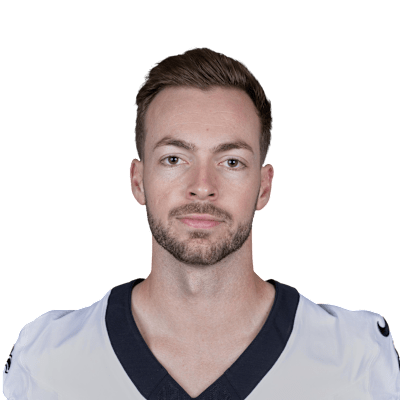
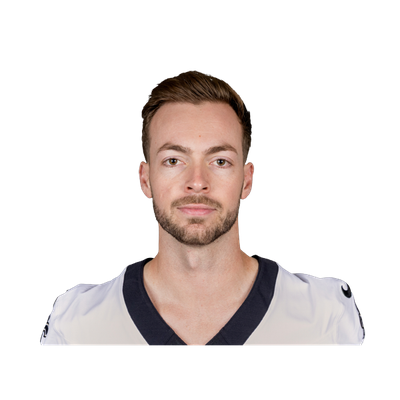
fix: repair the QB update pipeline and bring the roster current for 2026
populateQBs.js was silently a no-op: its "run if called directly" check
compared a URL-encoded import.meta.url against a raw file:// string built
from process.argv[1], which never matched on this checkout's path (it
contains spaces). It also never loaded .env, so the client Firestore SDK
connected with an undefined project id. Layered on top, the client SDK
can't write to `players` at all under firestore.rules (admin-only) without
authenticating -- so even after both bugs were fixed, every write came back
PERMISSION_DENIED. Rewrote it to use firebase-admin with the already-present,
gitignored serviceAccountKey.json, which the admin-SDK dependency and key
file suggest was the intended design all along.

With the pipeline actually running, updated quarterbacks.js against current
team depth charts: added 42 quarterbacks who were on a depth chart but not
on the list, re-added Jake Haener (an orphaned headshot with no list entry),
and corrected 3 stale teams (Justin Fields to KC, Sam Howell to DAL, Joe
Flacco to CIN). Retired/inactive quarterbacks (Taylor Heinicke, Russell
Wilson) were left in place on their last known team, not removed.

Also fixed the same stale-team duplication in backupQBClassification.js's
Hall of Fame list (Joe Flacco, Tyrod Taylor) and two id typos that no longer
matched their quarterbacks.js entries.

Downloaded and processed real headshots for the 46 quarterbacks who needed
one (42 new adds plus 4 already on the list but missing a photo), matching
[…]

diff --git a/src/features/ranker/quarterbacks.js b/src/features/ranker/quarterbacks.js
@@ -13,50 +13,93 @@
 // Run `npm run check-roster` after editing.
 export const quarterbacks = [
   { id: 'aaron-rodgers', name: 'Aaron Rodgers', team: 'PIT' },
+  { id: 'aidan-oconnell', name: "Aidan O'Connell", team: 'LV' },
+  { id: 'andy-dalton', name: 'Andy Dalton', team: 'PHI' },
   { id: 'anthony-richardson', name: 'Anthony Richardson', team: 'IND' },
+  { id: 'athan-kaliakmanis', name: 'Athan Kaliakmanis', team: 'WAS' },
   { id: 'baker-mayfield', name: 'Baker Mayfield', team: 'TB' },
+  { id: 'behren-morton', name: 'Behren Morton', team: 'NE' },
   { id: 'bo-nix', name: 'Bo Nix', team: 'DEN' },
+  { id: 'brady-cook', name: 'Brady Cook', team: 'MIA' },
   { id: 'brock-purdy', name: 'Brock Purdy', team: 'SF' },
   { id: 'bryce-young', name: 'Bryce Young', team: 'CAR' },
   { id: 'c-j-stroud', name: 'C.J. Stroud', team: 'HOU' },
+  { id: 'cade-klubnik', name: 'Cade Klubnik', team: 'NYJ' },
   { id: 'caleb-williams', name: 'Caleb Williams', team: 'CHI' },
   { id: 'cameron-ward', name: 'Cam Ward', team: 'TEN' },
+  { id: 'carson-beck', name: 'Carson Beck', team: 'ARI' },
   { id: 'carson-wentz', name: 'Carson Wentz', team: 'MIN' },
+  { id: 'case-keenum', name: 'Case Keenum', team: 'CHI' },
+  { id: 'cole-payton', name: 'Cole Payton', team: 'PHI' },
+  { id: 'cooper-rush', name: 'Cooper Rush', team: 'ATL' },
   { id: 'dak-prescott', name: 'Dak Prescott', team: 'DAL' },
   { id: 'daniel-jones', name: 'Daniel Jones', team: 'IND' },
+  { id: 'davis-mills', name: 'Davis Mills', team: 'HOU' },
   { id: 'deshaun-watson', name: 'Deshaun Watson', team: 'CLE' },
   { id: 'drake-maye', name: 'Drake Maye', team: 'NE' },
+  { id: 'drew-allar', name: 'Drew Allar', team: 'PIT' },
+  { id: 'drew-lock', name: 'Drew Lock', team: 'SEA' },
   { id: 'fernando-mendoza', name: 'Fernando Mendoza', team: 'LV' },
+  { id: 'garrett-nussmeier', name: 'Garrett Nussmeier', team: 'KC' },
   { id: 'geno-smith', name: 'Geno Smith', team: 'NYJ' },
+  { id: 'gardner-minshew-ii', name: 'Gardner Minshew II', team: 'ARI' },
+  { id: 'haynes-king', name: 'Haynes King', team: 'CAR' },
   { id: 'j-j-mccarthy', name: 'J.J. McCarthy', team: 'MIN' },
+  { id: 'jack-strand', name: 'Jack Strand', team: 'ATL' },
   { id: 'jacoby-brissett', name: 'Jacoby Brissett', team: 'ARI' },
+  { id: 'jake-haener', name: 'Jake Haener', team: 'NYG' },
   { id: 'jalen-hurts', name: 'Jalen Hurts', team: 'PHI' },
+  { id: 'jalen-milroe', name: 'Jalen Milroe', team: 'SEA' },
+  { id: 'jalon-daniels', name: 'Jalon Daniels', team: 'TB' },
   { id: 'jameis-winston', name: 'Jameis Winston', team: 'NYG' },
   { id: 'jared-goff', name: 'Jared Goff', team: 'DET' },
+  { id: 'jarrett-stidham', name: 'Jarrett Stidham', team: 'DEN' },
   { id: 'jaxson-dart', name: 'Jaxson Dart', team: 'NYG' },
   { id: 'jayden-daniels', name: 'Jayden Daniels', team: 'WAS' },
   { id: 'joe-burrow', name: 'Joe Burrow', team: 'CIN' },
-  { id: 'joe-flacco', name: 'Joe Flacco', team: 'CLE' },
+  { id: 'joe-fagnano', name: 'Joe Fagnano', team: 'BAL' },
+  { id: 'joe-flacco', name: 'Joe Flacco', team: 'CIN' },
   { id: 'jordan-love', name: 'Jordan Love', team: 'GB' },
   { id: 'josh-allen', name: 'Josh Allen', team: 'BUF' },
-  { id: 'justin-fields', name: 'Justin Fields', team: 'NYJ' },
+  { id: 'joshua-dobbs', name: 'Joshua Dobbs', team: 'DET' },
+  { id: 'justin-fields', name: 'Justin Fields', team: 'KC' },
   { id: 'justin-herbert', name: 'Justin Herbert', team: 'LAC' },
+  { id: 'kenny-pickett', name: 'Kenny Pickett', team: 'CAR' },
   { id: 'kirk-cousins', name: 'Kirk Cousins', team: 'LV' },
+  { id: 'kurtis-rourke', name: 'Kurtis Rourke', team: 'SF' },
+  { id: 'kyle-allen', name: 'Kyle Allen', team: 'BUF' },
+  { id: 'kyle-mccord', name: 'Kyle McCord', team: 'MIA' },
   { id: 'kyler-murray', name: 'Kyler Murray', team: 'MIN' },
   { id: 'lamar-jackson', name: 'Lamar Jackson', team: 'BAL' },
   { id: 'mac-jones', name: 'Mac Jones', team: 'SF' },
   { id: 'malik-willis', name: 'Malik Willis', team: 'MIA' },
   { id: 'marcus-mariota', name: 'Marcus Mariota', team: 'WAS' },
+  { id: 'mason-rudolph', name: 'Mason Rudolph', team: 'PIT' },
   { id: 'matthew-stafford', name: 'Matthew Stafford', team: 'LAR' },
   { id: 'michael-penix-jr', name: 'Michael Penix Jr', team: 'ATL' },
+  { id: 'mitchell-trubisky', name: 'Mitchell Trubisky', team: 'TEN' },
   { id: 'patrick-mahomes', name: 'Patrick Mahomes', team: 'KC' },
+  { id: 'quinn-ewers', name: 'Quinn Ewers', team: 'JAX' },
+  { id: 'riley-leonard', name: 'Riley Leonard', team: 'IND' },
   { id: 'russell-wilson', name: 'Russell Wilson', team: 'NYG' },
   { id: 'sam-darnold', name: 'Sam Darnold', team: 'SEA' },
-  { id: 'sam-howell', name: 'Sam Howell', team: 'PHI' },
+  { id: 'sam-ehlinger', name: 'Sam Ehlinger', team: 'DEN' },
+  { id: 'sam-howell', name: 'Sam Howell', team: 'DAL' },
+  { id: 'shedeur-sanders', name: 'Shedeur Sanders', team: 'CLE' },
   { id: 'spencer-rattler', name: 'Spencer Rattler', team: 'NO' },
+  { id: 'stetson-bennett-iv', name: 'Stetson Bennett IV', team: 'LAR' },
+  { id: 'tanner-mckee', name: 'Tanner McKee', team: 'PHI' },
+  { id: 'taylen-green', name: 'Taylen Green', team: 'CLE' },
   { id: 'taylor-heinicke', name: 'Taylor Heinicke', team: 'LAC' },
+  { id: 'tommy-devito', name: 'Tommy DeVito', team: 'NE' },
   { id: 'trevor-lawrence', name: 'Trevor Lawrence', team: 'JAX' },
+  { id: 'trey-lance', name: 'Trey Lance', team: 'LAC' },
   { id: 'tua-tagovailoa', name: 'Tua Tagovailoa', team: 'ATL' },
+  { id: 'ty-simpson', name: 'Ty Simpson', team: 'LAR' },
+  { id: 'tyler-huntley', name: 'Tyler Huntley', team: 'BAL' },
   { id: 'tyler-shough', name: 'Tyler Shough', team: 'NO' },
   { id: 'tyrod-taylor', name: 'Tyrod Taylor', team: 'GB' },
+  { id: 'tyson-bagent', name: 'Tyson Bagent', team: 'CHI' },
+  { id: 'will-howard', name: 'Will Howard', team: 'PIT' },
+  { id: 'zach-wilson', name: 'Zach Wilson', team: 'NO' },
 ];

diff --git a/populateQBs.js b/populateQBs.js
@@ -7,30 +7,35 @@
 // Existing saved data always wins over the defaults here, so re-running is
 // safe: grades, roles and blurbs survive. Only the curated fields -- name,
 // team, position -- are refreshed from the list.
-import { initializeApp } from 'firebase/app';
-import {
-  getFirestore,
-  doc,
-  setDoc,
-  getDoc,
-  collection,
-  getDocs,
-} from 'firebase/firestore';
+//
+// Uses firebase-admin with serviceAccountKey.json (gitignored, one per
+// developer from the Firebase console), not the public client SDK. The
+// `players` collection is admin-write-only (see firestore.rules), so writing
+// through the client SDK -- as this script used to -- authenticates as
+// nobody and every write comes back PERMISSION_DENIED; only the admin SDK,
+// which carries its own service-account credential, can get past that.
+import fs from 'fs';
+import path from 'path';
+import { fileURLToPath } from 'url';
+import admin from 'firebase-admin';
 import { quarterbacks } from './src/features/ranker/quarterbacks.js';
 import { emptyTraits } from './src/constants/traits.js';
 
-// Firebase config (using environment variables)
-const firebaseConfig = {
-  apiKey: process.env.VITE_FIREBASE_API_KEY,
-  authDomain: process.env.VITE_FIREBASE_AUTH_DOMAIN,
-  projectId: process.env.VITE_FIREBASE_PROJECT_ID,
-  storageBucket: process.env.VITE_FIREBASE_STORAGE_BUCKET,
-  messagingSenderId: process.env.VITE_FIREBASE_MESSAGING_SENDER_ID,
-  appId: process.env.VITE_FIREBASE_APP_ID,
-};
+const here = path.dirname(fileURLToPath(import.meta.url));
+const keyPath = path.join(here, 'serviceAccountKey.json');
 
-const app = initializeApp(firebaseConfig);
-const db = getFirestore(app);
+if (!fs.existsSync(keyPath)) {
+  console.error(
+    `Missing ${keyPath}.\n` +
+      'Generate one from Firebase console > Project settings > Service accounts ' +
+      '> Generate new private key, and save it there (it is gitignored).'
+  );
+  process.exit(1);
+}
+
+const serviceAccount = JSON.parse(fs.readFileSync(keyPath, 'utf8'));
+admin.initializeApp({ credential: admin.credential.cert(serviceAccount) });
+const db = admin.firestore();
 
 const DRY_RUN = process.argv.includes('--dry-run');
 
@@ -46,12 +51,12 @@ async function populateQBs() {
 
   for (const qb of quarterbacks) {
     try {
-      const docRef = doc(db, 'players', qb.id);
+      const docRef = db.collection('players').doc(qb.id);
 
       // Check if document already exists
-      const docSnap = await getDoc(docRef);
+      const docSnap = await docRef.get();
 
-      const existing = docSnap.exists() ? docSnap.data() : {};
+      const existing = docSnap.exists ? docSnap.data() : {};
 
       // Basic QB data structure matching what the components expect
       const qbData = {
@@ -103,7 +108,7 @@ async function populateQBs() {
       };
 
       // Classify before writing so a dry run can report the same thing.
-      if (!docSnap.exists()) {
+      if (!docSnap.exists) {
         created.push(`${qb.name} (${qb.team})`);
       } else {
         const wasTeam = existing.bio?.Team;
@@ -123,7 +128,7 @@ async function populateQBs() {
       }
 
       if (!DRY_RUN) {
-        await setDoc(docRef, qbData, { merge: true });
+        await docRef.set(qbData, { merge: true });
       }
     } catch (error) {
       console.error(`✗ Error processing ${qb.name}:`, error);
@@ -146,7 +151,7 @@ async function populateQBs() {
   // quarterback who left the league belongs on the list marked retired, not
   // removed from it.
   try {
-    const saved = await getDocs(collection(db, 'players'));
+    const saved = await db.collection('players').get();
     const listed = new Set(quarterbacks.map((qb) => qb.id));
     const orphans = saved.docs.map((d) => d.id).filter((id) => !listed.has(id));
     if (orphans.length > 0) {
@@ -172,8 +177,11 @@ async function populateQBs() {
   );
 }
 
-// Run the script if called directly
-if (import.meta.url === `file://${process.argv[1]}`) {
+// Run the script if called directly. Compared as filesystem paths, not
+// strings -- a path containing spaces (or other characters the URL encodes)
+// never matched `file://${process.argv[1]}`, so this guard silently skipped
+// populateQBs() on any checkout not sitting at an unencoded path.
+if (process.argv[1] === fileURLToPath(import.meta.url)) {
   populateQBs().catch(console.error);
 }
 

diff --git a/src/utils/backupQBs/backupQBClassification.js b/src/utils/backupQBs/backupQBClassification.js
@@ -9,10 +9,10 @@ export const BACKUP_QBS = [
   'sam-howell',
   'jacoby-brissett',
   'cooper-rush',
-  'mitch-trubisky',
+  'mitchell-trubisky',
   'case-keenum',
   'jake-browning',
-  'gardner-minshew',
+  'gardner-minshew-ii',
   'taylor-heinicke',
   'jimmy-garoppolo',
   'joshua-dobbs',
@@ -99,7 +99,7 @@ export const BACKUP_QB_HALL_OF_FAME = [
   {
     id: 'joe-flacco',
     name: 'Joe Flacco',
-    team: 'CLE',
+    team: 'CIN',
     accomplishments: [
       'Super Bowl XLVII Champion & MVP',
       'Master of the backup QB role',
@@ -125,7 +125,7 @@ export const BACKUP_QB_HALL_OF_FAME = [
   {
     id: 'tyrod-taylor',
     name: 'Tyrod Taylor',
-    team: 'NYJ',
+    team: 'GB',
     accomplishments: [
       'Mobile backup specialist',
       'Playoff experience',
